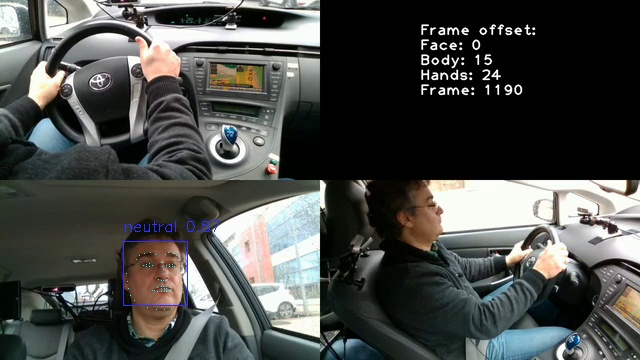
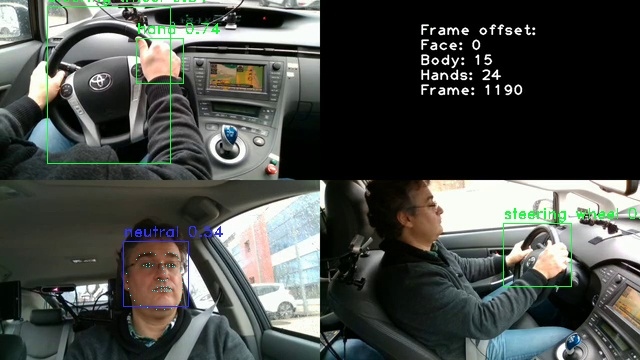
cleaned up yolo model

diff --git a/detection_models/hands_wheel.py b/detection_models/hands_wheel.py
@@ -13,11 +13,22 @@ class HandsWheel(BaseModel):
         self.model = torch.hub.load('ultralytics/yolov5', 'custom', path=model_path)
 
     def run_recognition(self, image):
-        results = self.model(image)
-        logger.debug(results)
-        return results.pandas().xyxy[0].to_dict(orient="records")
+        detection = self.model(image)
+        detection_df = detection.pandas()
+        if len(detection_df.xyxy) == 0:
+            return []
+        logger.debug(detection_df.xyxy[0].to_json(orient="records"))
+        return detection_df.xyxy[0].to_dict(orient="records")
 
     def decorate_image(self, image, result):
-        results = self.model(image)
-        results.render()
-        return results.imgs[0]
+        for detection in result:
+            if detection['confidence'] > 0.7:
+                xmin = int(detection['xmin'])
+                ymin = int(detection['ymin'])
+                xmax = int(detection['xmax'])
+                ymax = int(detection['ymax'])
+                box_corner_1 = (xmin, ymin)
+                box_corner_2 = (xmax, ymax)
+                cv2.rectangle(image, box_corner_1, box_corner_2, HIGHLIGHT_GREEN_COLOR)
+                cv2.putText(image, "{} {:.2f}".format(detection['name'], detection['confidence']), (xmin, ymin - 5), cv2.FONT_HERSHEY_DUPLEX, 0.5, HIGHLIGHT_GREEN_COLOR)
+        return image

diff --git a/detection_models/emotion_recognition.py b/detection_models/emotion_recognition.py
@@ -40,8 +40,8 @@ class EmotionRecognition(BaseModel):
             emotions = emotion_result['emotions']
             box_corner_1 = (face_bounds[0], face_bounds[1]) # x, y coordinates
             box_corner_2 = (face_bounds[0] + face_bounds[2], face_bounds[1] + face_bounds[3]) # x + width, y + height
-            cv2.rectangle(image, box_corner_1, box_corner_2, HIGHLIGHT_RED_COLOR)
+            cv2.rectangle(image, box_corner_1, box_corner_2, HIGHLIGHT_BLUE_COLOR)
             top_emotion, score = self.get_top_emotion(emotions)
-            cv2.putText(image, "{} {}".format(top_emotion, score), (face_bounds[0], face_bounds[1] - 10), cv2.FONT_HERSHEY_SIMPLEX, 0.5, HIGHLIGHT_RED_COLOR)
+            cv2.putText(image, "{} {}".format(top_emotion, score), (face_bounds[0], face_bounds[1] - 5), cv2.FONT_HERSHEY_DUPLEX, 0.5, HIGHLIGHT_BLUE_COLOR)
 
         return image

diff --git a/detection_models/facial_landmark.py b/detection_models/facial_landmark.py
@@ -25,5 +25,5 @@ class FacialLandmark(BaseModel):
         for face_landmarks in result:
             for facial_feature in face_landmarks.keys():
                 for point in face_landmarks[facial_feature]:
-                    cv2.circle(image, point, radius=0, color=HIGHLIGHT_BLUE_COLOR, thickness=-1)
+                    cv2.circle(image, point, radius=0, color=HIGHLIGHT_TEAL_COLOR, thickness=-1)
         return image

diff --git a/detection_models/constants.py b/detection_models/constants.py
@@ -1,2 +1,3 @@
-HIGHLIGHT_BLUE_COLOR = (255, 255, 0)
-HIGHLIGHT_RED_COLOR = (255, 49, 49)
+HIGHLIGHT_TEAL_COLOR = (255, 255, 0)
+HIGHLIGHT_BLUE_COLOR = (255, 49, 49)
+HIGHLIGHT_GREEN_COLOR = (57, 255, 20)
